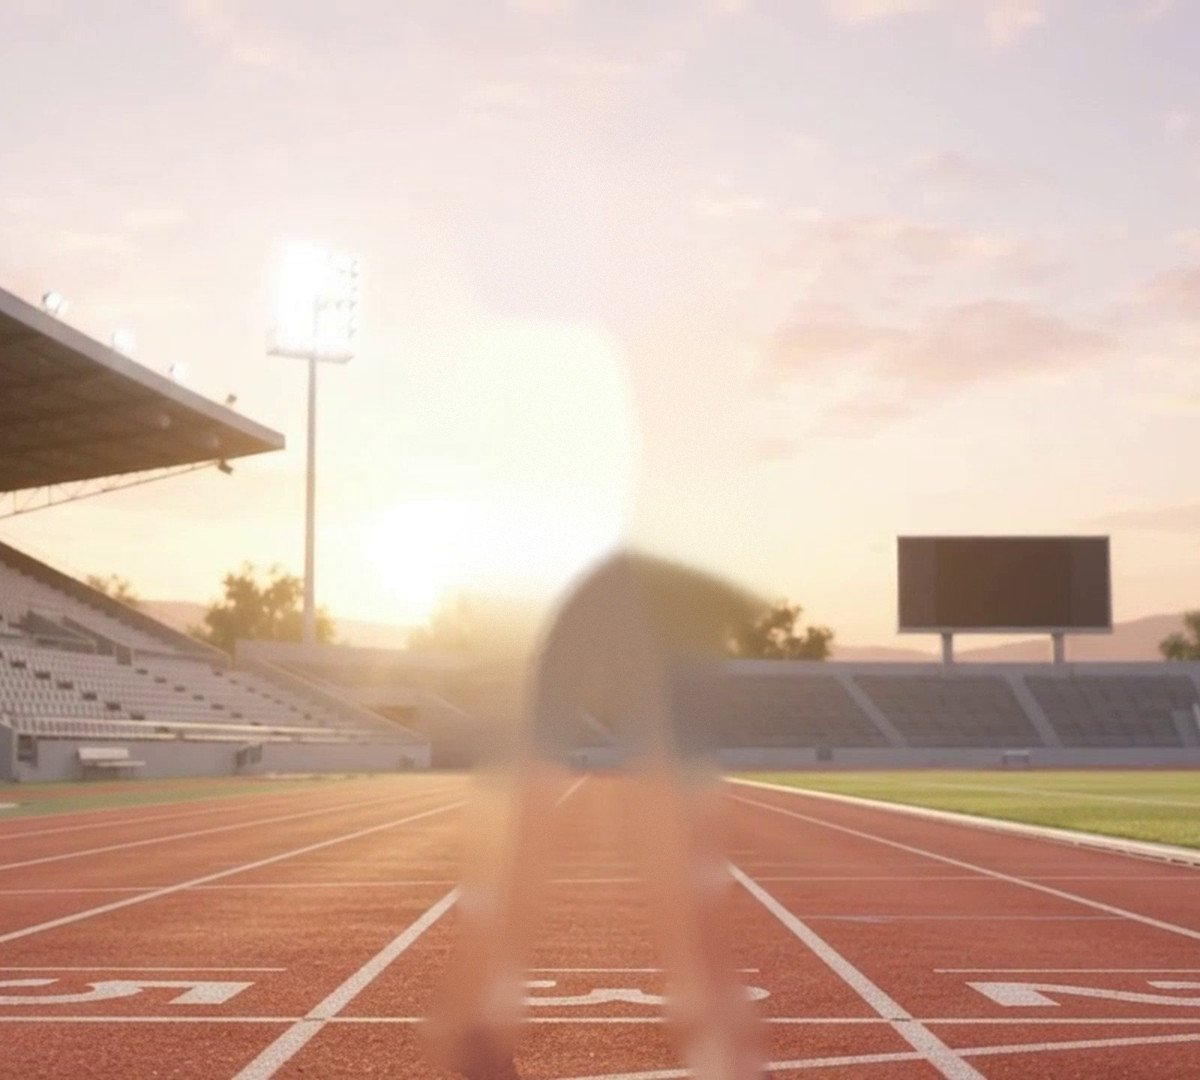
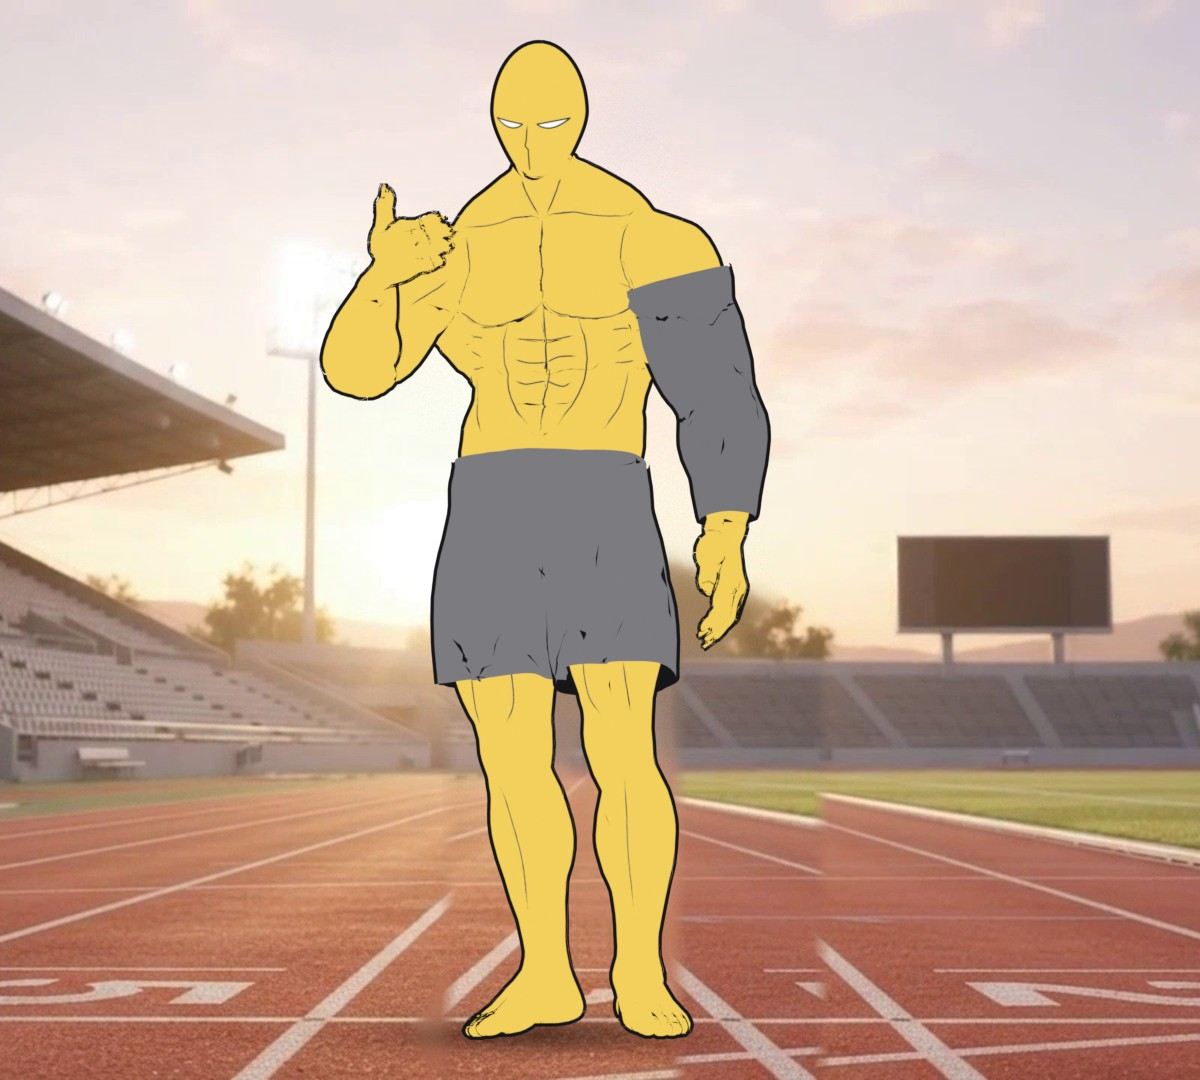
Default hero in matches: on his VS scene, same yellow on every stage
- hero_vs.jpg showed an empty track (a blurred ghost of Meera's film): the hero is now composited on
  it (render_toon.py --backdrop; hero_vs_plate.jpg is the plate with the ghost's legs cloned out)
- toon materials cap the lit tone at their own colour instead of a fixed scale: the match's Get Ready
  stage (brighter lights) showed him lemon-yellow while the lobby was right

Changed region(s): [[0.2467, 0.0306, 0.7092, 1.0]]

diff --git a/src/features/avatar/avatarViewerHtml.ts b/src/features/avatar/avatarViewerHtml.ts
@@ -98,7 +98,6 @@ export function materialRuntimeJs(): string {
     return toonRamp;
   }
   var OUTLINE = 0.006; // metres, in the model's own units
-  var TOON_LIGHT = 0.72;
   function isCloth(m) { return /top|pants|shoes|kit|outfit|sport|shirt|jacket|cloth|short|hood/i.test(m.name || ''); }
   // Skin on a physical material: soft sheen, a faint clearcoat and the wrap lighting (skinLighting)
   function skinUp(p) {
@@ -132,7 +131,13 @@ export function materialRuntimeJs(): string {
       if (m.normalMap) t.normalScale.copy(m.normalScale);
       // flat comic colours: the filmic tone mapping washed the yellow out to cream under the lobby's lights
       t.toneMapped = false;
-      t.color.multiplyScalar(TOON_LIGHT); // the stage lights add up past 1: the lit tone lands on the authored colour
+      // the stage lights add up past 1 (and differ per page): the lit tone is capped at the authored colour,
+      // so it reads the same in the lobby and on the brighter match stage; the shade bands stay
+      t.onBeforeCompile = function (sh) {
+        sh.fragmentShader = sh.fragmentShader.replace('#include <output_fragment>',
+          'outgoingLight = min(outgoingLight, diffuseColor.rgb);\\n#include <output_fragment>');
+      };
+      t.customProgramCacheKey = function () { return 'ojas-toon'; };
       t.name = m.name;
       t.userData = Object.assign({}, m.userData, { toon: true, upgraded: true, outline: !/^toon_(eye|ink)/.test(m.name) });
       return t;

diff --git a/scripts/blender/render_toon.py b/scripts/blender/render_toon.py
@@ -1,11 +1,14 @@
 """Render a toon hero (materials named toon_*) the way the app draws it: three flat tones and a black outline.
 
     blender -b -P scripts/blender/render_toon.py -- <hero.glb> <out.png> [--clip C --frame F] [--yaw D]
-        [--size WxH] [--transparent 1] [--fit body|full] [--ortho 1]
+        [--size WxH] [--transparent 1] [--hide mesh,mesh] [--backdrop plate.jpg --crop X --cx PX]
 
 The app (avatarViewerHtml.ts) uses MeshToonMaterial with a 3-step ramp (110/190/255) and a back-face hull
 pushed out 6 mm, black. Here: diffuse lighting -> Shader to RGB -> constant ramp, times the material's colour
 map (and its normal map), plus a Solidify hull with flipped normals in black.
+
+--backdrop: the hero over a photo (the VS screen's scene): the photo's columns from --crop, --size wide; the hero
+centred on column --cx, with a soft contact shadow; written as JPEG.
 """
 import math
 import sys
@@ -140,6 +143,36 @@ sc.camera = co
 co.location = (c.x + 5 * math.sin(YAW), c.y - 5 * math.cos(YAW), c.z)
 co.rotation_euler = (math.radians(90), 0, YAW)
 sc.render.resolution_x, sc.render.resolution_y = W, H
-sc.render.filepath = OUT
+BACKDROP = opts.get('--backdrop')
+if BACKDROP:
+    sc.render.film_transparent = True
+    # the figure's centre goes to column --cx: shift the camera sideways
+    cx = float(opts.get('--cx', W / 2))
+    co.location.x -= (cx - W / 2) / W * cam.ortho_scale * (1 if W >= H else W / H)
+sc.render.filepath = OUT + '.png' if BACKDROP else OUT
 bpy.ops.render.render(write_still=True)
+if BACKDROP:
+    import numpy as np
+    fig = bpy.data.images.load(OUT + '.png')
+    F = np.array(fig.pixels[:], np.float32).reshape(H, W, 4)
+    plate = bpy.data.images.load(BACKDROP)
+    pw, ph = plate.size
+    P = np.array(plate.pixels[:], np.float32).reshape(ph, pw, 4)
+    x0 = int(opts.get('--crop', '0'))
+    B = P[:H, x0:x0 + W, :3].copy()
+    # contact shadow: a soft dark ellipse under the feet (rows are bottom-up in Blender images)
+    rows = np.where(F[..., 3].max(1) > 0.5)[0]
+    foot = rows.min() if len(rows) else 0
+    yy, xx = np.mgrid[0:H, 0:W]
+    e = ((xx - cx) / (W * 0.16)) ** 2 + ((yy - foot - 4) / (H * 0.02)) ** 2
+    B *= (1 - 0.45 * np.exp(-e * 2.0))[..., None]
+    a = F[..., 3:4]
+    C = F[..., :3] * a + B * (1 - a)    # straight alpha; both images' pixels are sRGB values (8-bit files)
+    out = bpy.data.images.new('vs', W, H, alpha=False)
+    out.pixels[:] = np.concatenate([C, np.ones((H, W, 1), np.float32)], -1).ravel()
+    out.filepath_raw = OUT
+    out.file_format = 'JPEG'
+    out.save(quality=90)
+    import os
+    os.remove(OUT + '.png')
 print('TOON', OUT)
